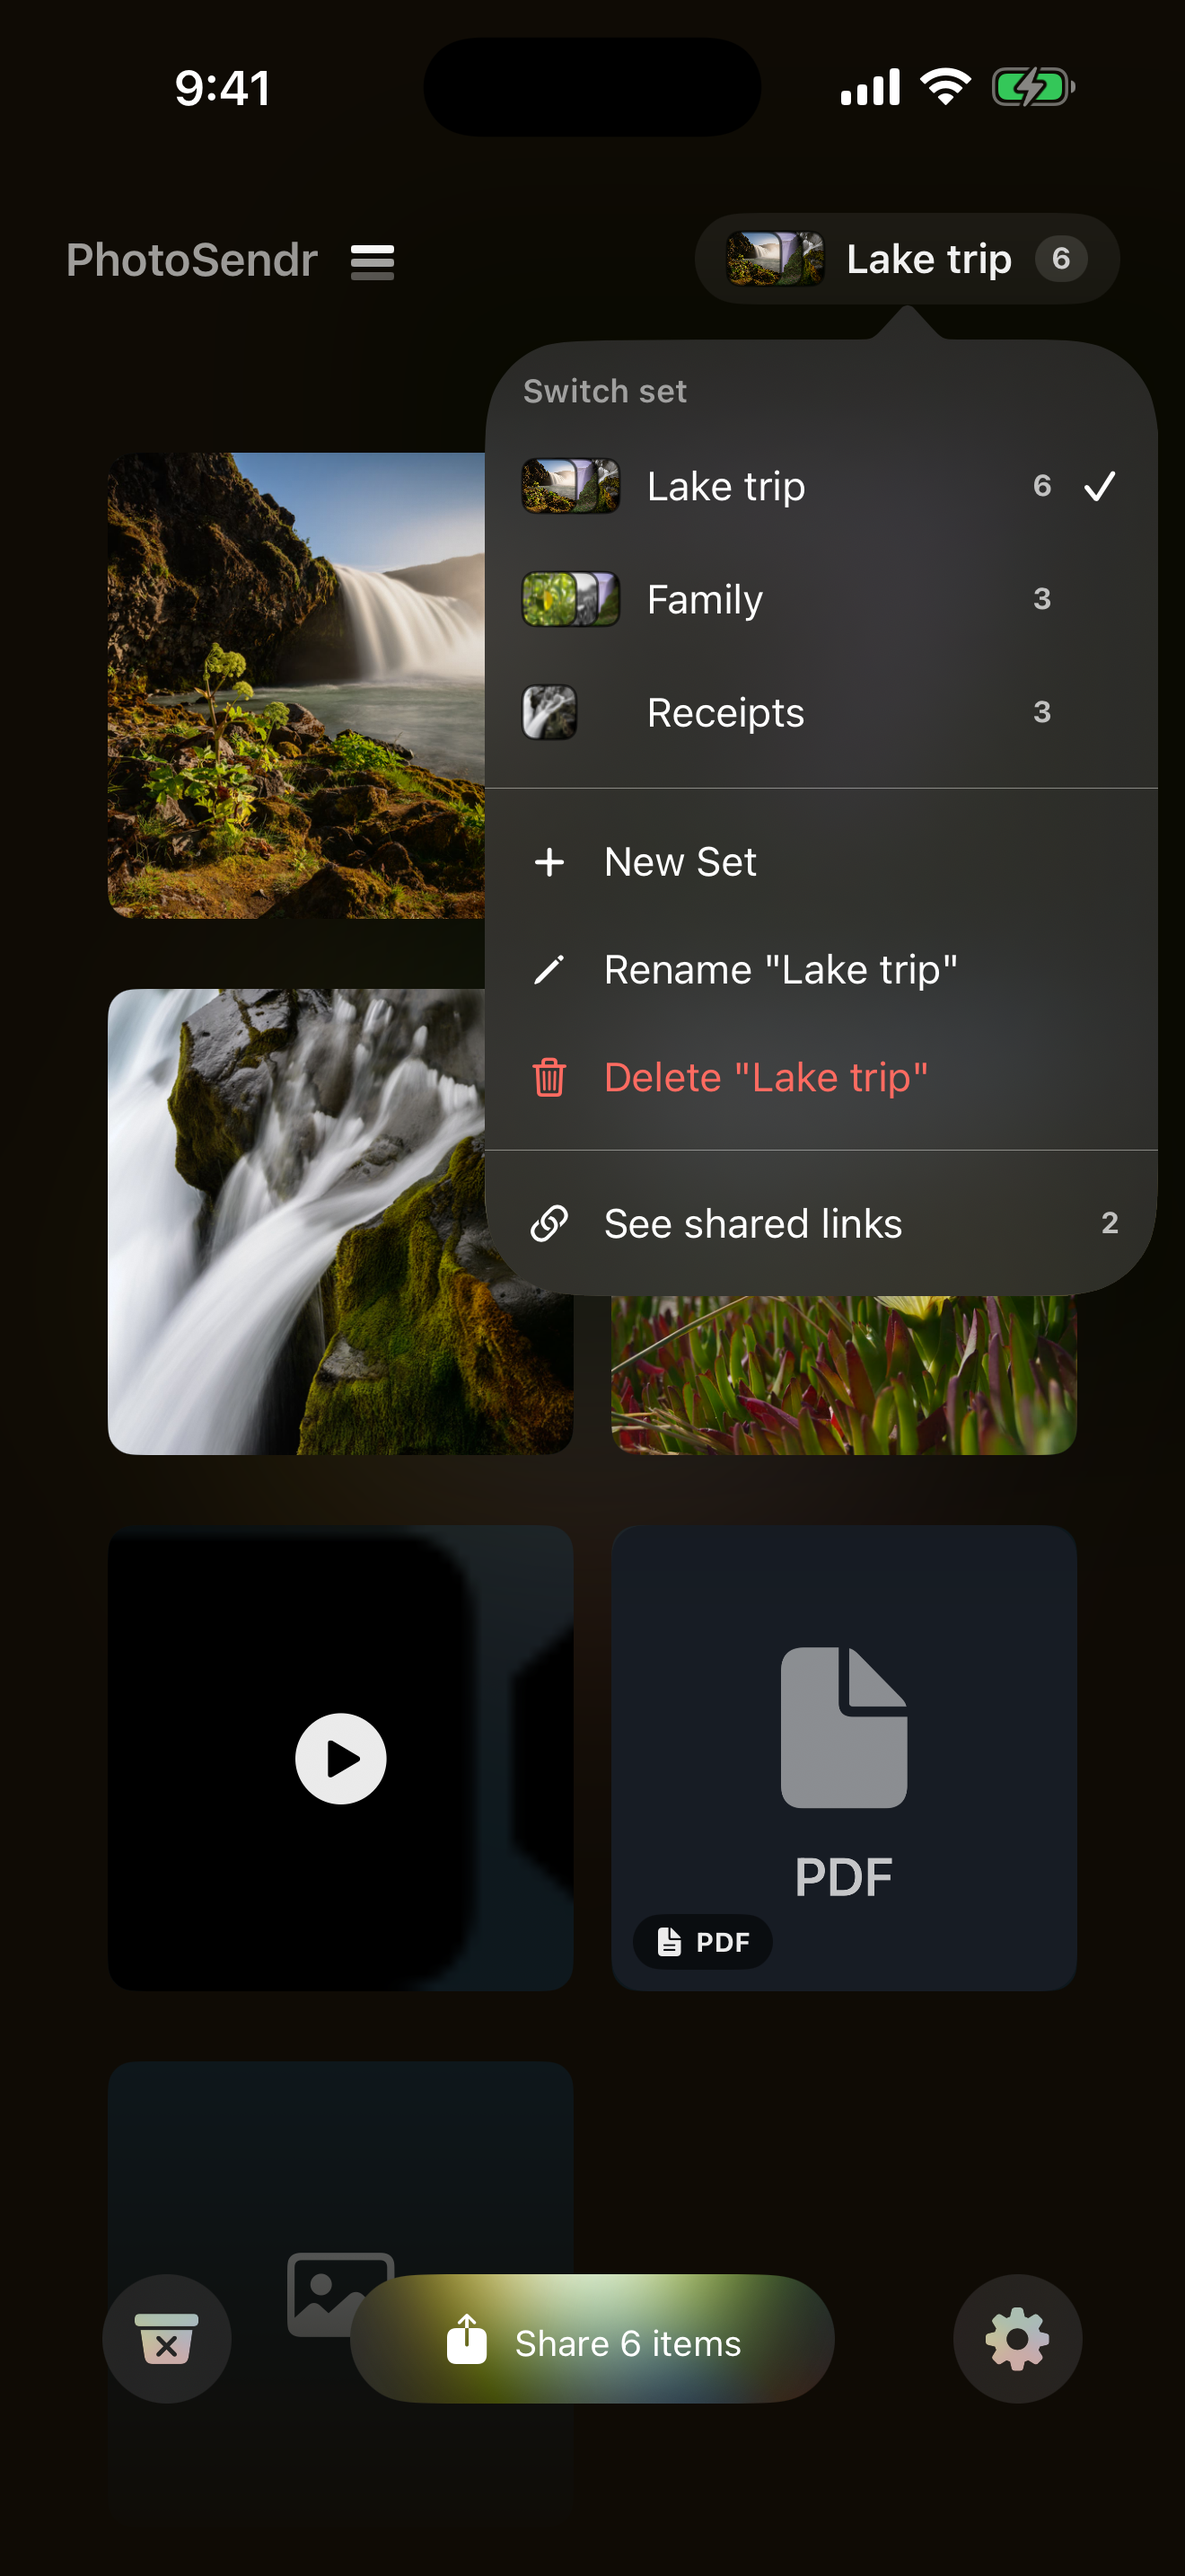
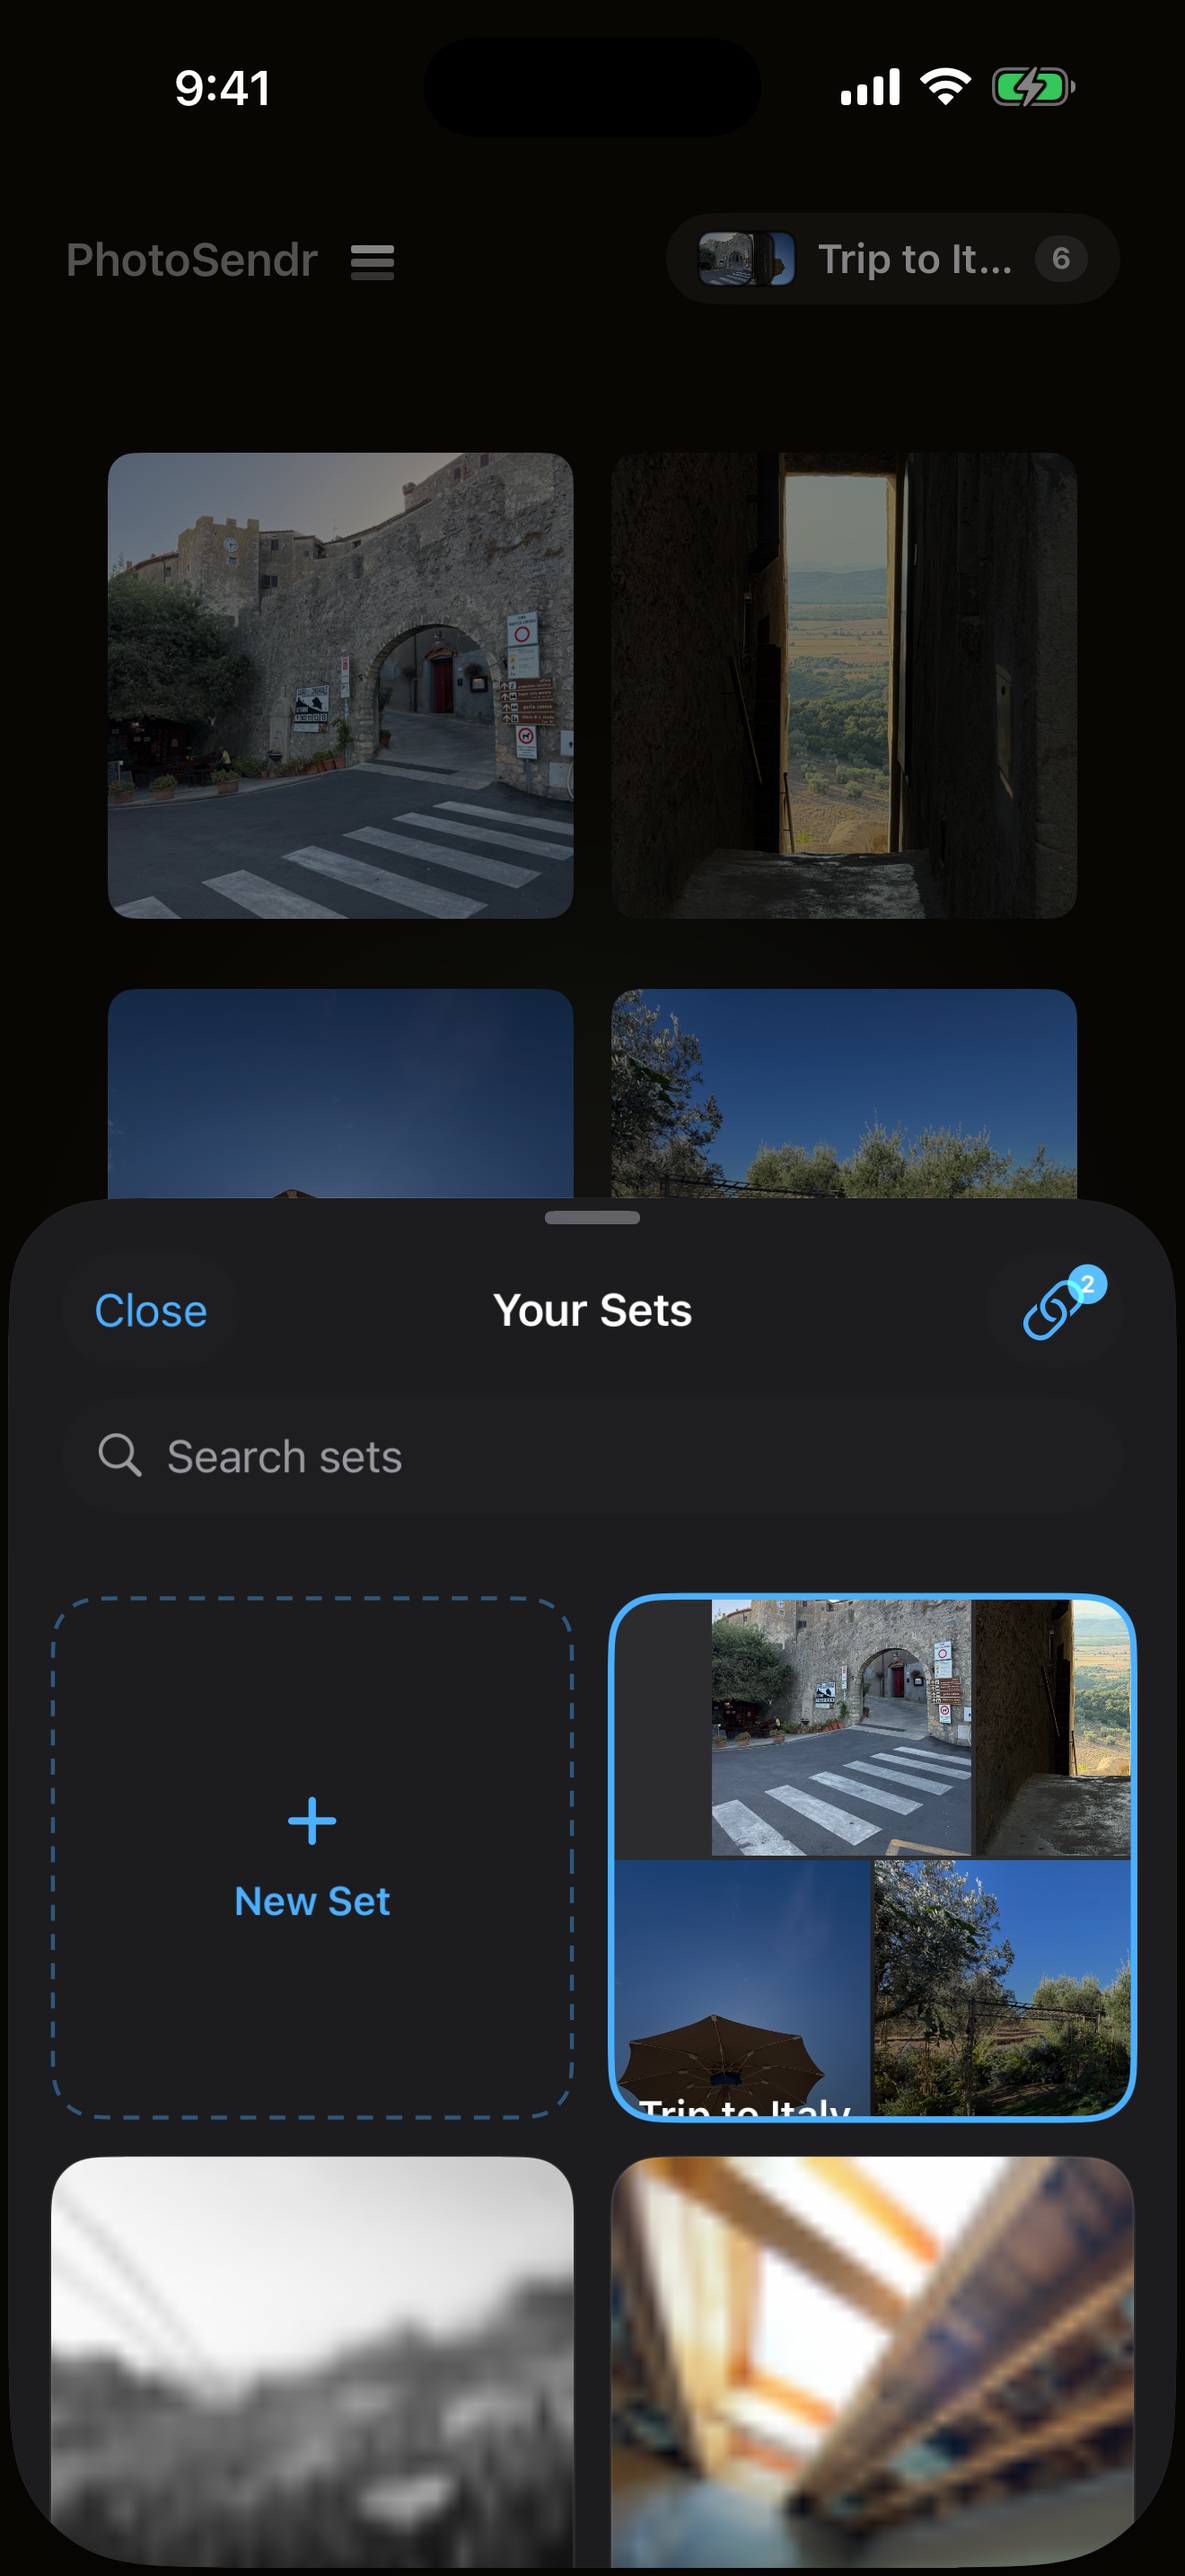
Refresh app screenshots with real photos and the new set switcher
shot-grid/shot-sets/shot-share/shot-crop were the 5.3-era captures —
generic stock waterfall photos, "Lake trip", and the old popover set
switcher. Swapped in the current App Store screenshots: real Tuscany
travel photos (Trip to Italy), and the new searchable thumbnail-grid
switcher that replaced the popover list. Alt text updated to match.

Claude-Session: https://claude.ai/code/session_01KbdXL5XuxYXfPZWYjYfMxU

diff --git a/index.html b/index.html
@@ -482,8 +482,8 @@ in a tap — by email, PDF, or link.</p>
     <h2>Straight from the app</h2>
     <p>Real screens — the grid holding photos and a video, your sets one tap away, the share sheet with its PDF toggle, and a shared link open on an iPad.</p>
     <div class="shots">
-      <div class="shotframe"><img src="shot-grid.png" alt="The PhotoSendr grid on iPhone with eight photos and a video" loading="lazy"></div>
-      <div class="shotframe"><img src="shot-sets.png" alt="The set switcher open, showing Lake House, Family, and Receipts sets with thumbnails" loading="lazy"></div>
+      <div class="shotframe"><img src="shot-grid.png" alt="The PhotoSendr grid on iPhone with travel photos and two videos" loading="lazy"></div>
+      <div class="shotframe"><img src="shot-sets.png" alt="The searchable set switcher open, showing Trip to Italy, Family, and Construction sets with thumbnails" loading="lazy"></div>
       <div class="shotframe"><img src="shot-share.png" alt="Share sheet with PDF toggle" loading="lazy"></div>
       <div class="shotframe pad"><img src="shot-viewer-ipad.png" alt="A shared PhotoSendr link open in Safari on iPad" loading="lazy"></div>
     </div>
